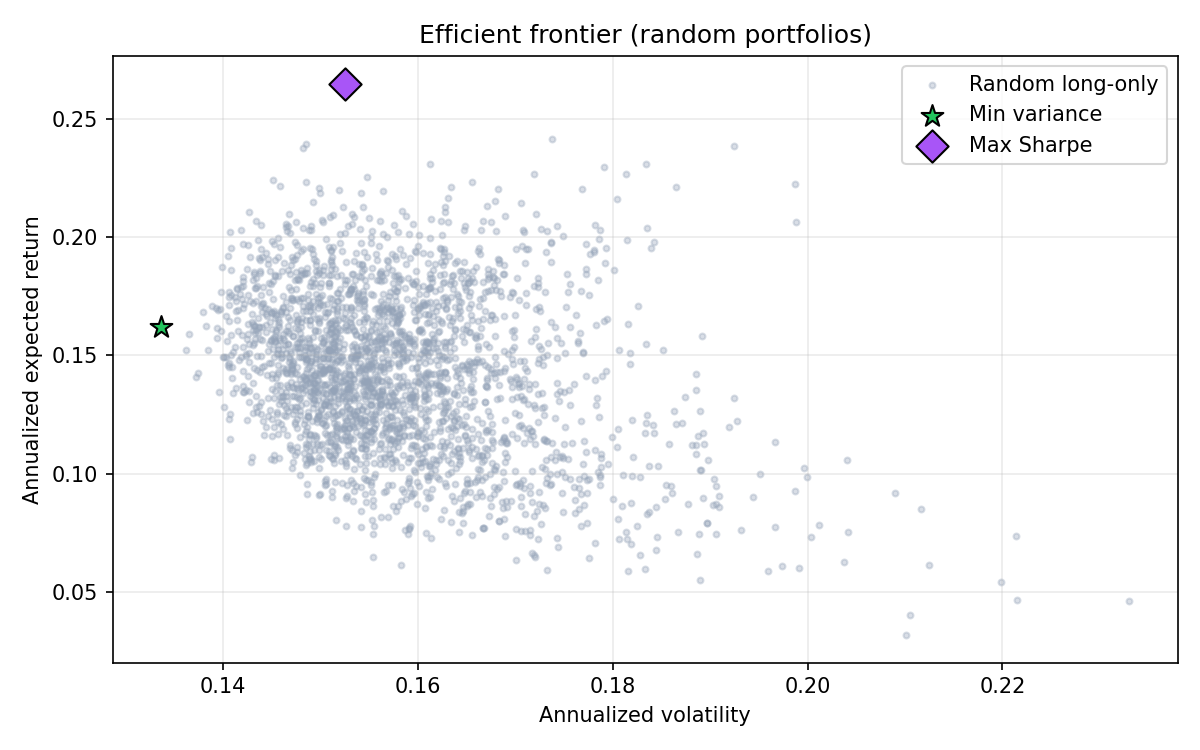
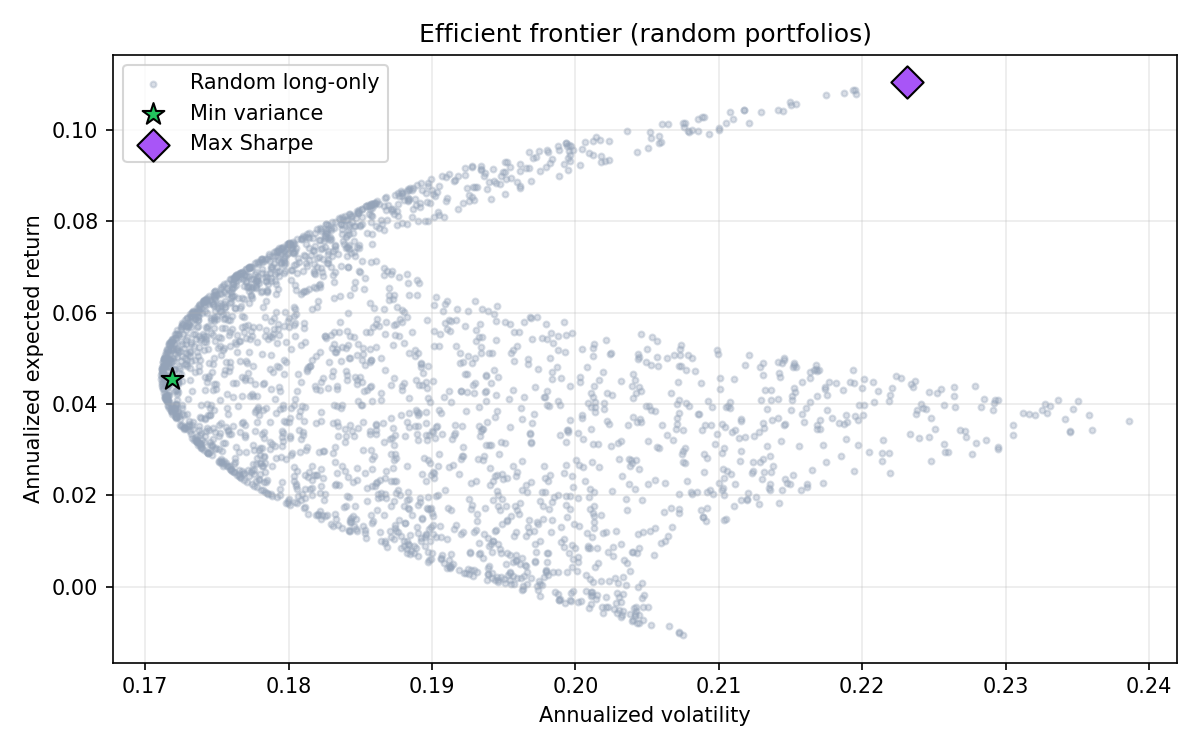
2nd-commit

diff --git a/engine/utils/capm.py b/engine/utils/capm.py
@@ -1,20 +1,158 @@
+"""
+CAPM (Capital Asset Pricing Model) utilities for Indian equities.
+
+Fetches Nifty 50 as the market proxy, computes per-stock beta,
+and derives CAPM-implied annualized expected returns.
+
+Formula:
+    E(Ri) = Rf + beta_i * (E(Rm) - Rf)
+
+where:
+    E(Rm) = annualized historical market return (Nifty 50)
+    beta_i = Cov(Ri, Rm) / Var(Rm)   [computed from daily returns]
+    Rf     = risk-free rate (India 10Y G-Sec proxy, default 7%)
+"""
+
+from __future__ import annotations
+
+import logging
+from datetime import date, timedelta
+
+import numpy as np
+import pandas as pd
+import yfinance as yf
+
+from models.constants import DEFAULT_RISK_FREE_ANNUAL_IN, TRADING_DAYS_PER_YEAR
+from models.exceptions import DataFetchError
+
+logger = logging.getLogger(__name__)
+
+_NIFTY_SYMBOL = "^NSEI"
+
+
+def fetch_market_returns(
+    start: date | None = None,
+    end: date | None = None,
+) -> pd.Series:
+    start_s = start.isoformat() if start else (date.today() - timedelta(days=365 * 5)).isoformat()
+    end_s = end.isoformat() if end else None
+
+    try:
+        df = yf.download(
+            _NIFTY_SYMBOL,
+            start=start_s,
+            end=end_s,
+            progress=False,
+            threads=False,
+            auto_adjust=True,
+        )
+        if df is None or df.empty or "Close" not in df.columns:
+            raise DataFetchError("Empty response for ^NSEI")
+
+        closes = df["Close"].copy()
+        if isinstance(closes.index, pd.DatetimeIndex):
+            closes.index = closes.index.tz_localize(None).normalize()
+
+        returns = closes.astype(float).pct_change().dropna()
+        returns.name = "market"
+        logger.info("Fetched %d Nifty 50 daily returns", len(returns))
+        return returns
+
+    except Exception as e:
+        logger.warning("Could not fetch Nifty 50 returns: %s — CAPM will be skipped", e)
+        return pd.Series(dtype=float, name="market")
+
+
+def compute_betas(
+    stock_daily_returns: pd.DataFrame,
+    market_daily_returns: pd.Series,
+) -> dict[str, float]:
+    aligned = stock_daily_returns.join(
+        market_daily_returns.rename("__market__"), how="inner"
+    ).dropna()
+
+    if len(aligned) < 20:
+        logger.warning(
+            "Only %d overlapping rows for beta — defaulting all betas to 1.0",
+            len(aligned),
+        )
+        return {col: 1.0 for col in stock_daily_returns.columns}
+
+    market_col = aligned["__market__"].values
+    var_m = float(np.var(market_col, ddof=1))
+
+    if var_m < 1e-14:
+        logger.warning("Market variance near zero — defaulting all betas to 1.0")
+        return {col: 1.0 for col in stock_daily_returns.columns}
+
+    betas: dict[str, float] = {}
+    for sym in stock_daily_returns.columns:
+        stock_col = aligned[sym].values
+        cov_im = float(np.cov(stock_col, market_col, ddof=1)[0, 1])
+        beta = cov_im / var_m
+        beta = float(np.clip(beta, 0.1, 3.0))
+        betas[sym] = beta
+        logger.debug("Beta[%s] = %.4f", sym, beta)
+
+    return betas
+
+
+def capm_annualized_returns(
+    betas: dict[str, float],
+    market_daily_returns: pd.Series,
+    *,
+    risk_free_annual: float = DEFAULT_RISK_FREE_ANNUAL_IN,
+) -> dict[str, float]:
+    if market_daily_returns.empty:
+        logger.warning("Empty market returns — returning rf for all CAPM estimates")
+        return {sym: risk_free_annual for sym in betas}
+
+    mu_m_daily = float(market_daily_returns.mean())
+    e_rm_annual = float((1.0 + mu_m_daily) ** TRADING_DAYS_PER_YEAR - 1.0)
+    market_premium = e_rm_annual - risk_free_annual
+
+    logger.info(
+        "Market annual return=%.4f  Rf=%.4f  Market premium=%.4f",
+        e_rm_annual,
+        risk_free_annual,
+        market_premium,
+    )
+
+    capm_returns: dict[str, float] = {}
+    for sym, beta in betas.items():
+        er = risk_free_annual + beta * market_premium
+        capm_returns[sym] = float(er)
+        logger.debug("CAPM E(R)[%s] = %.4f  (beta=%.4f)", sym, er, beta)
+
+    return capm_returns
+
+
+def capm_daily_mu(
+    symbols: list[str],
+    market_daily_returns: pd.Series,
+    *,
+    risk_free_annual: float = DEFAULT_RISK_FREE_ANNUAL_IN,
+    betas: dict[str, float],
+) -> np.ndarray:
+    capm_ann = capm_annualized_returns(
+        betas,
+        market_daily_returns,
+        risk_free_annual=risk_free_annual,
+    )
+    daily_mus = []
+    for sym in symbols:
+        ann = capm_ann.get(sym, risk_free_annual)
+        daily_equiv = float((1.0 + ann) ** (1.0 / TRADING_DAYS_PER_YEAR) - 1.0)
+        daily_mus.append(daily_equiv)
+
+    return np.array(daily_mus, dtype=float)
+
+
 def blend_mu(
     historical_mu_d: np.ndarray,
     capm_mu_d: np.ndarray,
     alpha: float = 0.5,
 ) -> np.ndarray:
-    """
-    Shrink historical daily mu toward CAPM daily mu.
- 
-        blended = alpha * historical + (1 - alpha) * capm
- 
-    Default alpha=0.5 gives equal weight (50-50 blend).
- 
-    Parameters
-    ----------
-    alpha
-        Weight on historical. 0.5 = equal blend. 1.0 = pure historical.
-    """
     h = np.asarray(historical_mu_d, dtype=float)
     c = np.asarray(capm_mu_d, dtype=float)
     if h.shape != c.shape:
@@ -30,4 +168,3 @@ def blend_mu(
         float(blended.mean()),
     )
     return blended
- 

diff --git a/engine/services/optimizer.py b/engine/services/optimizer.py
@@ -49,8 +49,7 @@ def portfolio_mu_sigma_from_daily(
     return _annualized_portfolio_mean(mu_d, w), _annualized_portfolio_std(cov_d, w)
 
 
-def _normalize_weights(w: np.ndarray) -> np.ndarray:
-    max_weight = 0.4
+def _normalize_weights(w: np.ndarray, max_weight: float = 0.4) -> np.ndarray:
     w = np.clip(w, 0.0, max_weight)
     s = w.sum()
     if s <= 1e-12:
@@ -58,12 +57,23 @@ def _normalize_weights(w: np.ndarray) -> np.ndarray:
     return w / s
 
 
-def min_variance_weights(cov_d: np.ndarray, *, x0: np.ndarray | None = None) -> np.ndarray:
+def min_variance_weights(
+    cov_d: np.ndarray,
+    *,
+    x0: np.ndarray | None = None,
+    max_weight: float = 0.4,
+) -> np.ndarray:
     """
     Minimize w^T Sigma w subject to sum w = 1, w >= 0.
 
     Uses a small multi-start grid: SLSQP can stagnate at the barycenter for
     ill-scaled problems; we take the best feasible objective found.
+
+    Parameters
+    ----------
+    max_weight
+        Per-asset upper bound. Default 0.4 (40%) for real portfolios.
+        Pass 1.0 to allow unconstrained long-only (useful for unit tests).
     """
     cov_d = np.asarray(cov_d, dtype=float)
     n = cov_d.shape[0]
@@ -74,7 +84,6 @@ def min_variance_weights(cov_d: np.ndarray, *, x0: np.ndarray | None = None) -> 
         return float(w @ cov_d @ w)
 
     cons = ({"type": "eq", "fun": lambda w: float(np.sum(w) - 1.0)},)
-    max_weight = 0.4  
     bounds = tuple((0.0, max_weight) for _ in range(n))
 
     candidates: list[np.ndarray] = []
@@ -99,7 +108,7 @@ def min_variance_weights(cov_d: np.ndarray, *, x0: np.ndarray | None = None) -> 
             constraints=cons,
             options={"maxiter": 800, "ftol": 1e-12},
         )
-        x = _normalize_weights(res.x)
+        x = _normalize_weights(res.x, max_weight)
         obj = objective(x)
         if obj < best_obj - 1e-15:
             best_obj = obj
@@ -109,7 +118,10 @@ def min_variance_weights(cov_d: np.ndarray, *, x0: np.ndarray | None = None) -> 
     if best_x is None:
         raise OptimizationFailedError("Min variance: no candidate produced weights")
     if not ok_any:
-        logger.warning("min_variance: optimizer reported non-success for all inits; using best objective (%s)", best_msg)
+        logger.warning(
+            "min_variance: optimizer reported non-success for all inits; using best objective (%s)",
+            best_msg,
+        )
     return best_x
 
 
@@ -126,28 +138,31 @@ def max_sharpe_weights(
     rf = float(DEFAULT_RISK_FREE_ANNUAL_IN if risk_free_annual is None else risk_free_annual)
     mu_d = np.asarray(mu_d, dtype=float)
     mu_mean = np.mean(mu_d)
-    alpha = 0.6  
+    alpha = 0.6
     mu_d = alpha * mu_d + (1 - alpha) * mu_mean
     cov_d = np.asarray(cov_d, dtype=float)
     n = len(mu_d)
 
     def neg_sharpe(w: np.ndarray) -> float:
         mu_ann, sig_ann = portfolio_mu_sigma_from_daily(w, mu_d, cov_d)
-
         if sig_ann < 1e-14:
             return 1e12
-
         sharpe = (mu_ann - rf) / sig_ann
-
         penalty_lambda = 0.15
         penalty = penalty_lambda * sig_ann
-
         return -float(sharpe - penalty)
 
     w0 = np.ones(n) / n if x0 is None else np.asarray(x0, dtype=float)
     cons = ({"type": "eq", "fun": lambda w: float(np.sum(w) - 1.0)},)
     bounds = tuple((0.0, 1.0) for _ in range(n))
-    res = minimize(neg_sharpe, w0, method="SLSQP", bounds=bounds, constraints=cons, options={"maxiter": 500})
+    res = minimize(
+        neg_sharpe,
+        w0,
+        method="SLSQP",
+        bounds=bounds,
+        constraints=cons,
+        options={"maxiter": 500},
+    )
     if not res.success:
         logger.error("max_sharpe: %s", res.message)
         raise OptimizationFailedError(f"Max Sharpe failed: {res.message}")

diff --git a/engine/tests/test_optimizer.py b/engine/tests/test_optimizer.py
@@ -17,7 +17,7 @@ def test_min_variance_two_asset_diagonal_inverse_variance():
     """Diagonal Σ: long-only minimum variance is w_i ∝ 1/σ_i^2 (normalize)."""
     v0, v1 = 0.0004, 0.0001  # daily variances
     cov = np.diag([v0, v1])
-    w = min_variance_weights(cov)
+    w = min_variance_weights(cov, max_weight=1.0)
     inv = np.array([1.0 / v0, 1.0 / v1])
     w_exp = inv / inv.sum()
     assert w[0] + w[1] == pytest.approx(1.0)
